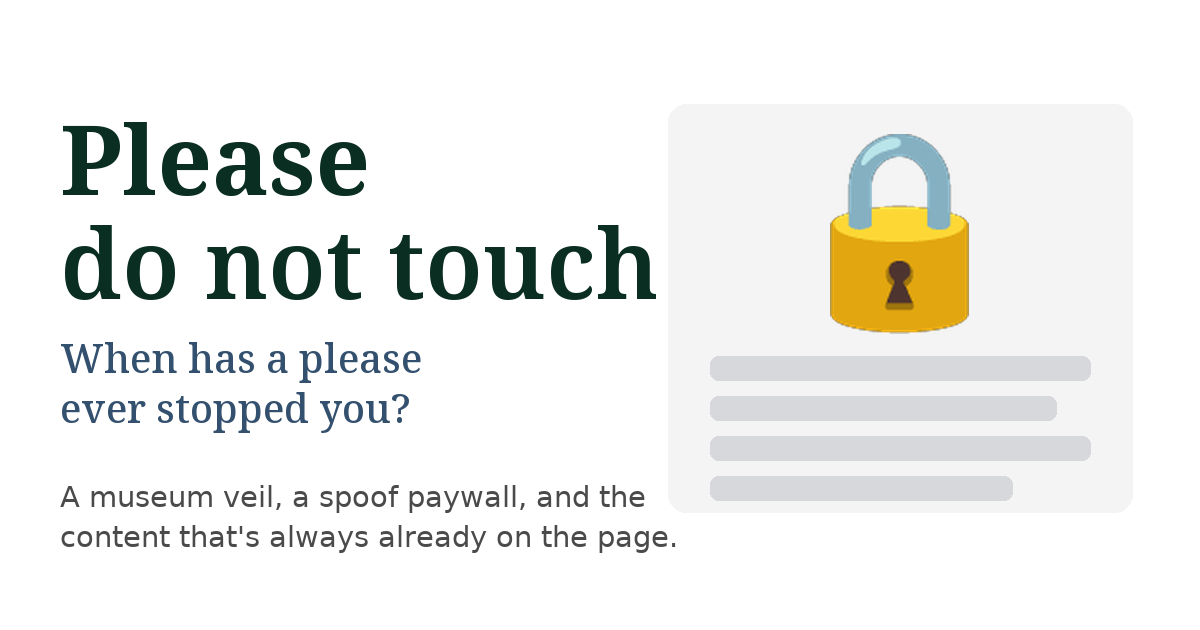
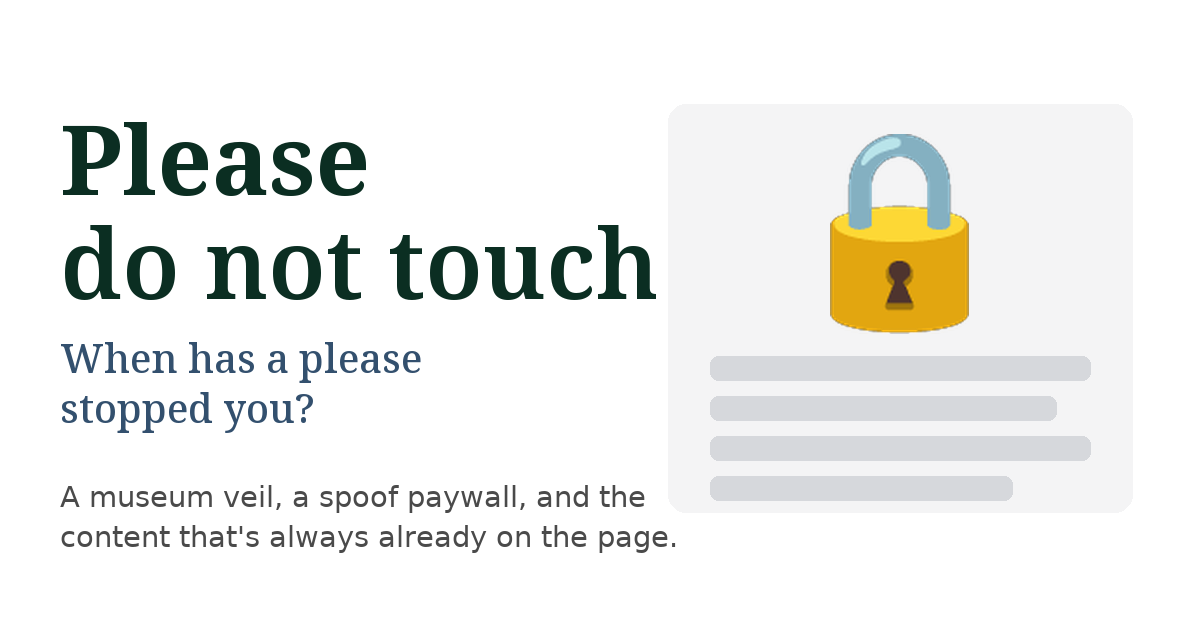
blog: drop 'ever' from please-do-not-touch summary + OG card
Reads less forceful as 'When has a please stopped you?' — updated both the
description front matter and the card art.

Changed region(s): [[0.0308, 0.6032, 0.3392, 0.6937]]

diff --git a/docs/posts/2026-06-30-please-do-not-touch.md b/docs/posts/2026-06-30-please-do-not-touch.md
@@ -1,6 +1,6 @@
 ---
 title: Please do not touch
-description: When has a please ever stopped you?
+description: When has a please stopped you?
 image: assets/please-do-not-touch_og.png
 date: 2026-06-30
 slug: please-do-not-touch